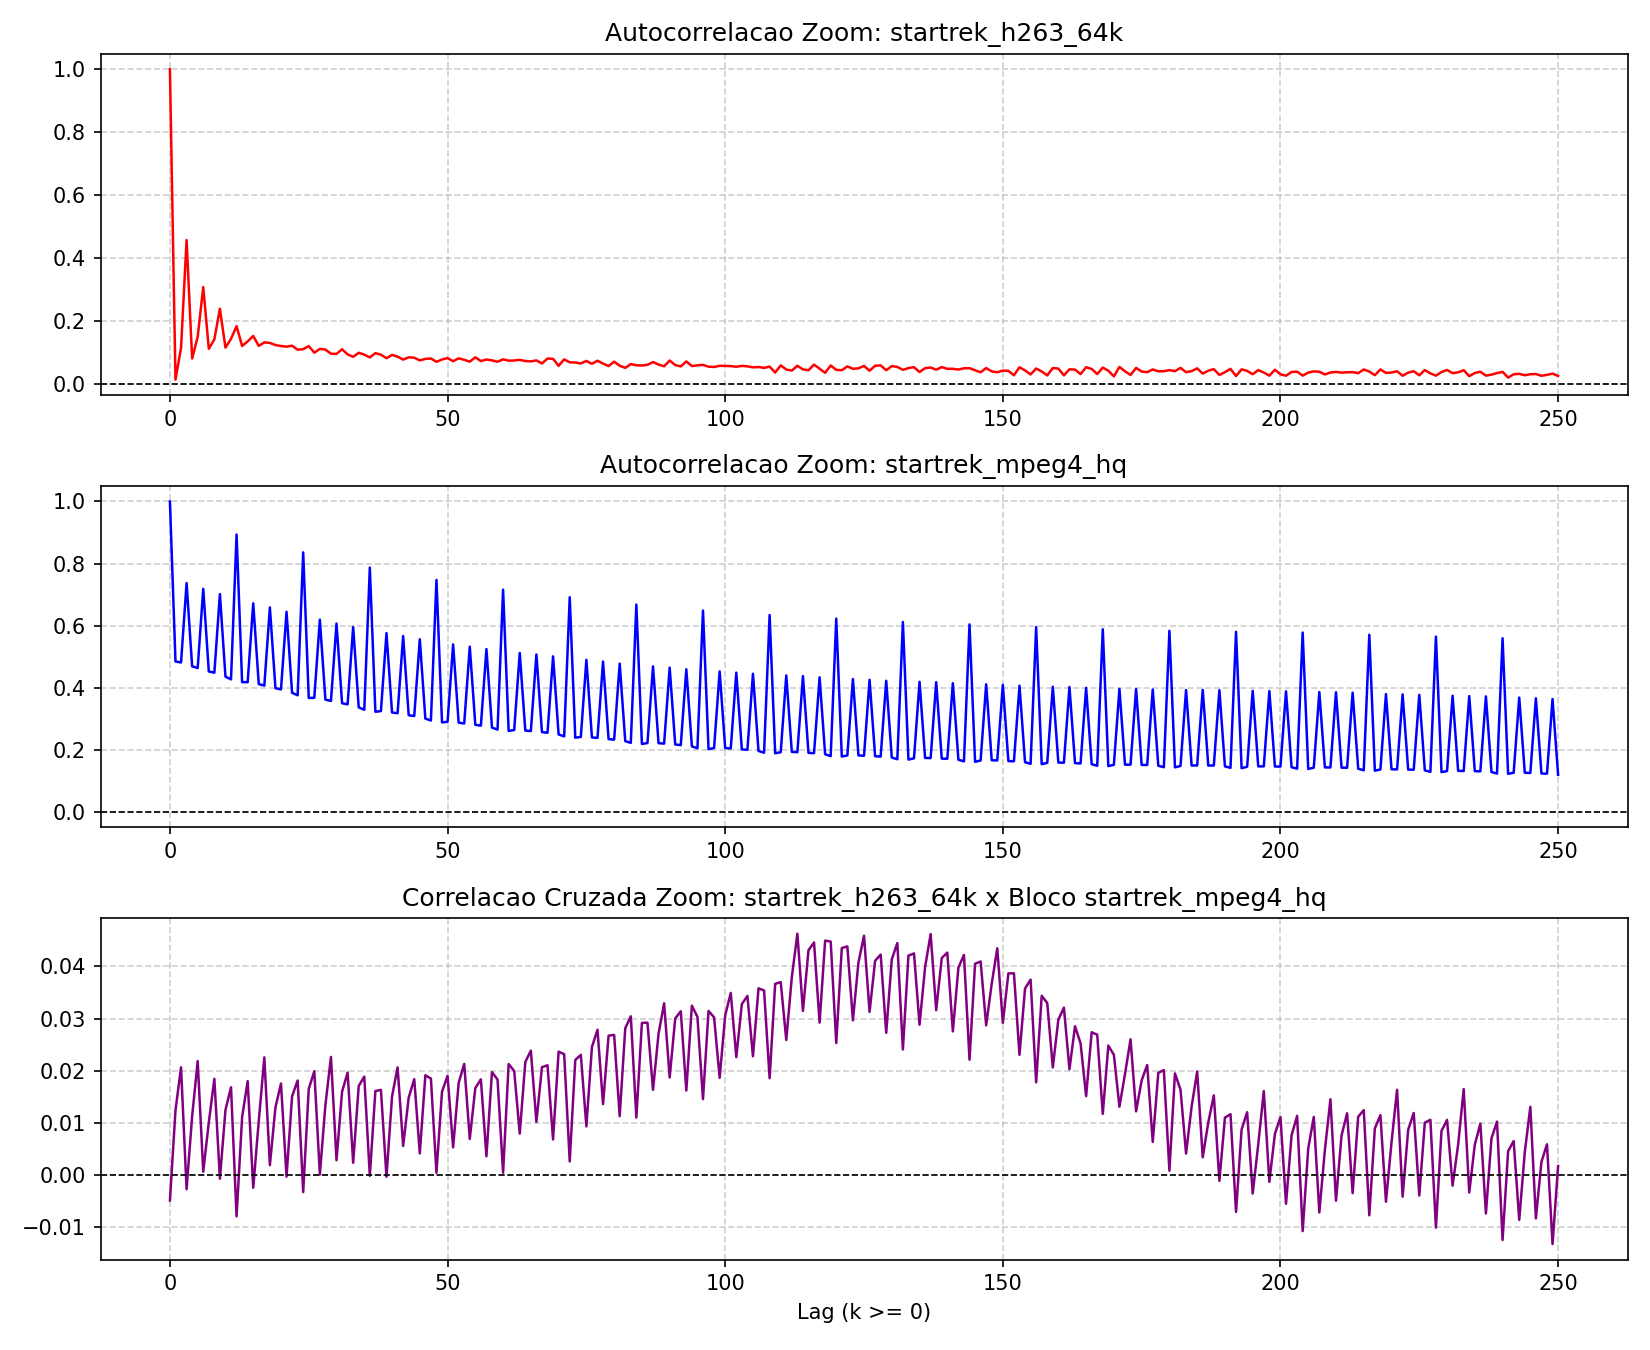
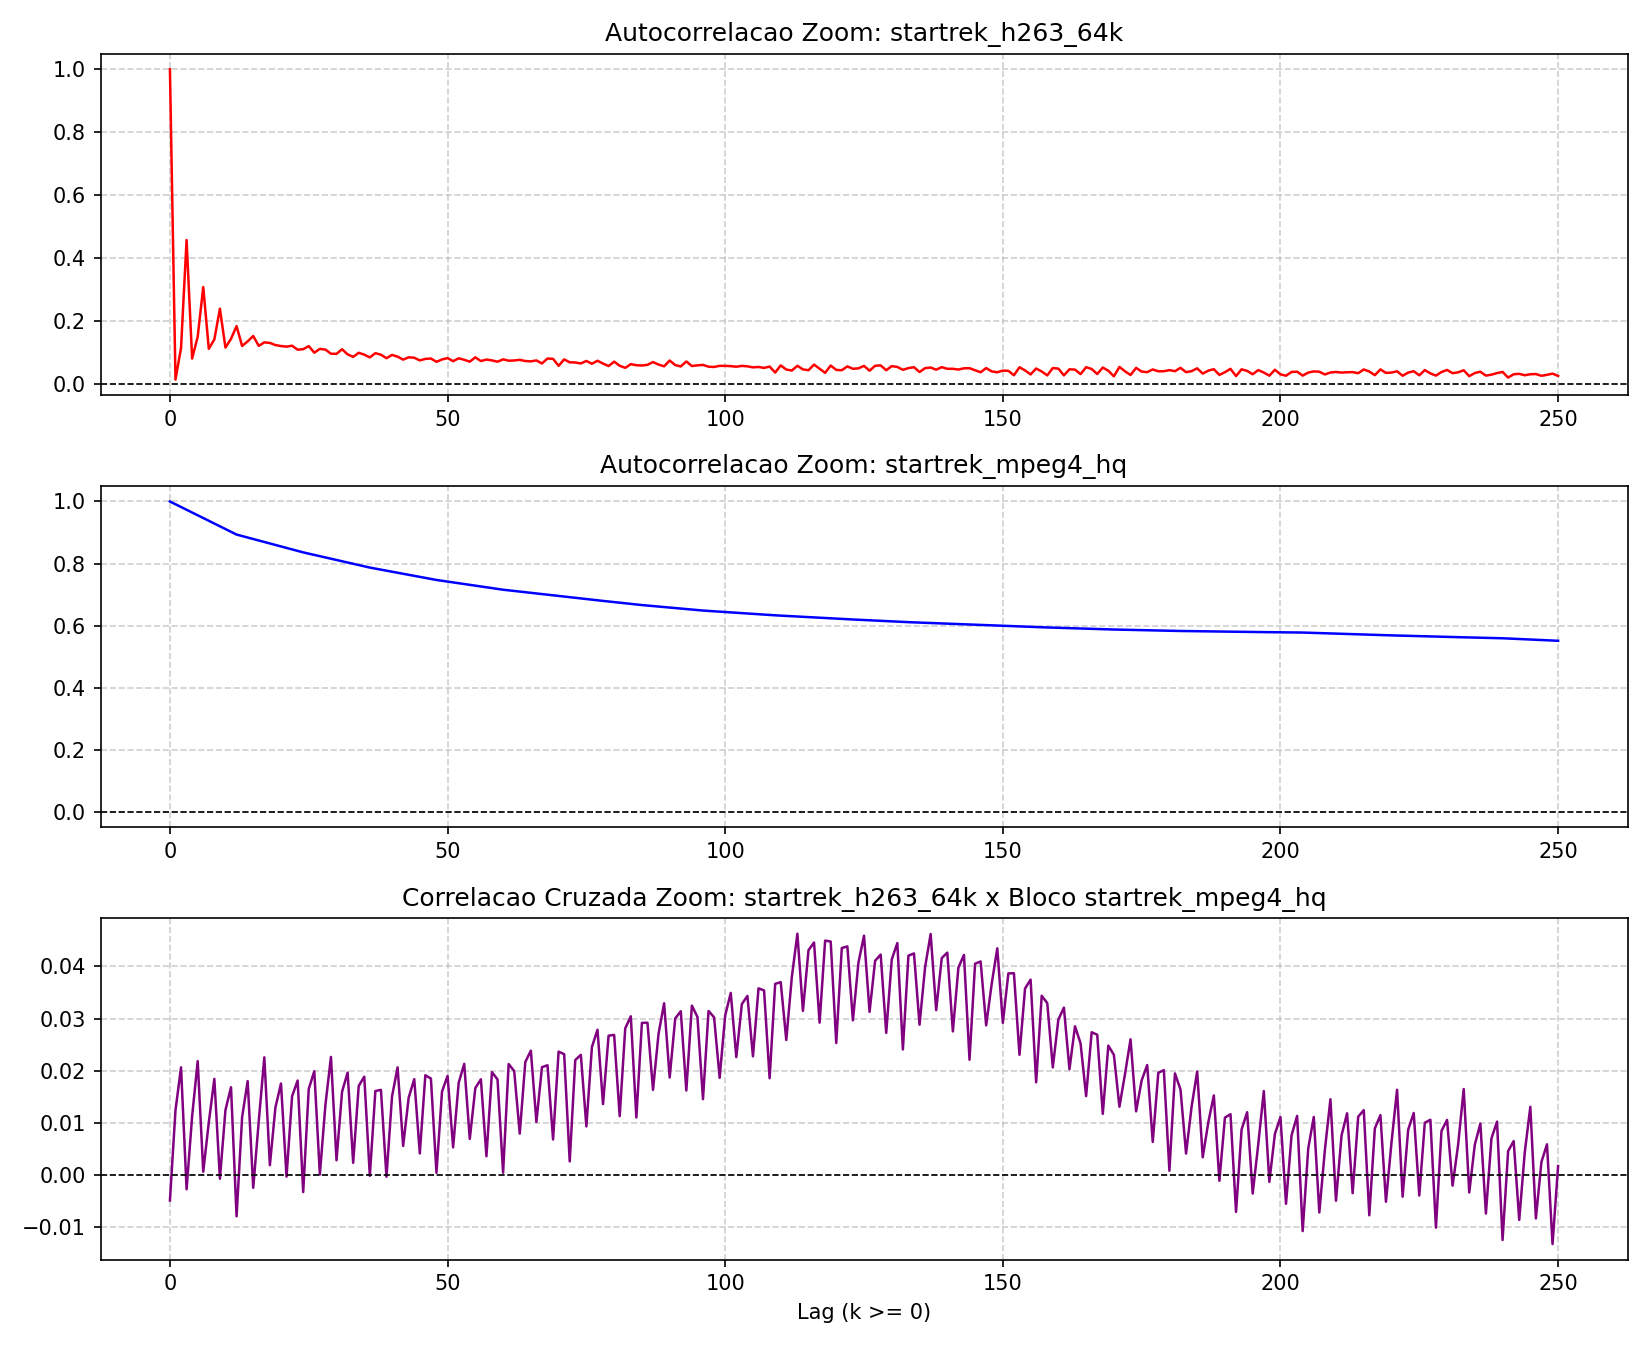
Suaviza autocorrelação do MPEG-4 removendo picos do GoP em forma de linha contínua

Changed region(s): [[0.0927, 0.4044, 0.9582, 0.5911], [0.0927, 0.3733, 0.1236, 0.4044]]

diff --git a/passo3_facs.py b/passo3_facs.py
@@ -2,6 +2,7 @@ from pathlib import Path
 import matplotlib.pyplot as plt
 from matplotlib.backends.backend_pdf import PdfPages
 import numpy as np
+from scipy.interpolate import interp1d
 
 pasta_base = Path(__file__).resolve().parent
 pasta_dados = pasta_base / "dados"
@@ -112,11 +113,18 @@ fac_yy = r_yy / r_yy[0]
 r_xy = np.correlate(x_c, y_bloco_c, mode="full")[N - 1 :] / (N - k_x)
 fac_xy = r_xy / np.sqrt(r_xx[0] * (np.var(y_bloco)))
 
+# Linha da autocorrelacao sem picos e vales (envoltoria dos picos do GoP a cada 12 quadros)
+# Conforme orientacao da professora para obter uma curva continua suave
+picos_k = np.arange(0, N_y, 12)
+f_env = interp1d(picos_k, fac_yy[picos_k], kind="linear", fill_value="extrapolate")
+fac_yy_suave = f_env(k_y)
+
 # zooms positivos (0 a 250)
 max_zoom = 250
 lags_zoom = np.arange(0, max_zoom + 1)
 xx_zoom = fac_xx[: max_zoom + 1]
-yy_zoom = fac_yy[: max_zoom + 1]
+yy_zoom = fac_yy_suave[: max_zoom + 1] # linha sem picos e vales
+yy_zoom_bruto = fac_yy[: max_zoom + 1]  # versao bruta com picos
 xy_zoom = fac_xy[: max_zoom + 1]
 
 def plotar_fac_sem_dc(lags, valores, titulo, cor, arquivo_saida):
@@ -140,6 +148,23 @@ plotar_fac_sem_dc(k_x, fac_xy, f"Correlacao Cruzada: {nome_x} x Bloco {nome_y}",
 plotar_fac_sem_dc(lags_zoom, xx_zoom, f"Autocorrelacao Zoom (0 a 250): {nome_x}", "red", pasta_passo3 / f"fac_{nome_x}_zoom.png")
 plotar_fac_sem_dc(lags_zoom, yy_zoom, f"Autocorrelacao Zoom (0 a 250): {nome_y}", "blue", pasta_passo3 / f"fac_{nome_y}_zoom.png")
 plotar_fac_sem_dc(lags_zoom, xy_zoom, f"Correlacao Cruzada Zoom (0 a 250): {nome_x} x Bloco {nome_y}", "purple", pasta_passo3 / "fac_cruzada_zoom.png")
+
+# Versao com picos e sobreposta salvas em extras
+plotar_fac_sem_dc(lags_zoom, yy_zoom_bruto, f"Autocorrelacao Zoom (com picos do GoP): {nome_y}", "blue", pasta_passo3_extras / f"fac_{nome_y}_zoom_com_picos.png")
+
+# grafico sobreposto em extras (picos + linha)
+plt.figure(figsize=(11, 5), dpi=120)
+plt.plot(lags_zoom, yy_zoom_bruto, color="lightblue", alpha=0.7, label="FAC com picos do GoP")
+plt.plot(lags_zoom, yy_zoom, color="blue", linewidth=1.5, label="Linha da FAC (suavizada / sem picos)")
+plt.axhline(0, color="black", linestyle="--", linewidth=0.8)
+plt.title(f"Autocorrelacao Zoom: {nome_y} (Picos vs Linha Suavizada)")
+plt.xlabel("Lag (k >= 0)")
+plt.ylabel("Coeficiente")
+plt.grid(True, linestyle="--", alpha=0.6)
+plt.legend()
+plt.tight_layout()
+plt.savefig(pasta_passo3_extras / f"fac_{nome_y}_zoom_sobreposto.png", dpi=150)
+plt.close()
 
 # 3 em 1 completo (salvo em extras)
 fig, axs = plt.subplots(3, 1, figsize=(11, 9), dpi=120)
@@ -183,6 +208,28 @@ axs[2].grid(True, linestyle="--", alpha=0.6)
 
 plt.tight_layout()
 plt.savefig(pasta_passo3_extras / "facs_3_em_1_zoom.png", dpi=150)
+plt.close()
+
+# 3 em 1 zoom com picos bruto (salvo em extras)
+fig_b, axs_b = plt.subplots(3, 1, figsize=(11, 9), dpi=120)
+axs_b[0].plot(lags_zoom, xx_zoom, color="red", linewidth=1.2)
+axs_b[0].axhline(0, color="black", linestyle="--", linewidth=0.8)
+axs_b[0].set_title(f"Autocorrelacao Zoom: {nome_x}")
+axs_b[0].grid(True, linestyle="--", alpha=0.6)
+
+axs_b[1].plot(lags_zoom, yy_zoom_bruto, color="blue", linewidth=1.2)
+axs_b[1].axhline(0, color="black", linestyle="--", linewidth=0.8)
+axs_b[1].set_title(f"Autocorrelacao Zoom: {nome_y} (com picos)")
+axs_b[1].grid(True, linestyle="--", alpha=0.6)
+
+axs_b[2].plot(lags_zoom, xy_zoom, color="purple", linewidth=1.2)
+axs_b[2].axhline(0, color="black", linestyle="--", linewidth=0.8)
+axs_b[2].set_title(f"Correlacao Cruzada Zoom: {nome_x} x Bloco {nome_y}")
+axs_b[2].set_xlabel("Lag (k >= 0)")
+axs_b[2].grid(True, linestyle="--", alpha=0.6)
+
+plt.tight_layout()
+plt.savefig(pasta_passo3_extras / "facs_3_em_1_zoom_com_picos.png", dpi=150)
 plt.close()
 
 # exporta PDF com zoom e varredura completa reunidos
